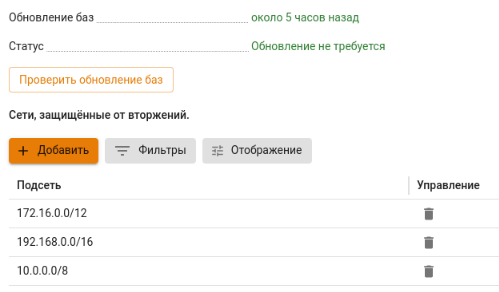
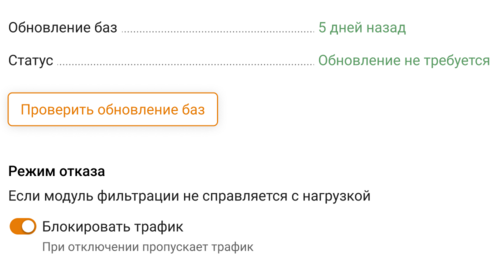
ICS-47907 УТМ. Внести правки в статью Настройки (Предотвращение вторжений)

diff --git a/settings/access-rules/ips/settings.md b/settings/access-rules/ips/settings.md
@@ -1,21 +1,27 @@
+---
+description: В статье рассматривается настройка дополнительных параметров фильтрации модуля Предотвращение вторжений.
+---
+
 # Настройки
 
-На вкладке можно проверить статус обновления баз системы **Предотвращение вторжений** и отредактировать список сетей, защищенных от вторжений:
+На вкладке можно проверить статус обновления баз системы **Предотвращение вторжений**, настроить **Режим отказа** и отредактировать список сетей, защищенных от вторжений:
 
 ![](/.gitbook/assets/ips16.png)
 
+Опция **Блокировать трафик** позволяет заблокировать весь трафик в случае перегрузки модуля **Предотвращение вторжений**.
+
 Для добавления подсети в список защищенных нажмите **Добавить** и в поле **Подсеть** укажите локальные сети, обслуживаемые NGFW (сети локальных интерфейсов NGFW, маршрутизируемые на них сети удаленных сегментов локальной сети предприятия).
+
+{% hint style="warning" %}
+**Не указывайте** сети, принадлежащие внешним сетевым интерфейсам NGFW и внешним сетям. Указанные здесь сети участвуют в правилах системы **Предотвращения вторжений** как локальные.
+{% endhint %}
 
 При наличии большого количества подсетей в таблице воспользуйтесь кнопкой **Фильтры**.
 
 {% hint style="warning" %}
-**Не указывайте** сети, принадлежащие внешним сетевым интерфейсам NGFW и внешним сетям. Указанные здесь сети участвуют в правилах системы **Предотвращения вторжений** как локальные. 
-{% endhint %}
+При работе системы **Предотвращения вторжений** не используйте сторонние DNS-серверы для компьютеров, т.к служба определяет зараженные устройства по DNS-запросам, проходящим через нее. \
 
-{% hint style="warning" %}
-При работе системы **Предотвращения вторжений** **не используйте** сторонние DNS-серверы для компьютеров, т.к служба определяет зараженные устройства по DNS-запросам, проходящим через нее. \
 При использовании внутреннего домена AD рекомендуется:
-
 * В компьютерах указать DNS-сервер Ideco NGFW в качестве единственного DNS-сервера;
 * В настройках DNS-сервера на NGFW указать Forward-зону для локального домена.
 {% endhint %}

diff --git a/settings/access-rules/ips/README.md b/settings/access-rules/ips/README.md
@@ -3,6 +3,7 @@ description: Система обнаружения и предотвращени
 ---
 
 # Предотвращение вторжений
+
 {% hint style="success" %}
 Название службы раздела **Предотвращение вторжений**: `ideco-suricata-backend`; `ideco-suricata`; `ideco-suricata-event-syncer`; `ideco-suricata-profiles-syncer`. \
 Список имен служб для других разделов доступен по [ссылке](/settings/server-management/terminal/README.md).
